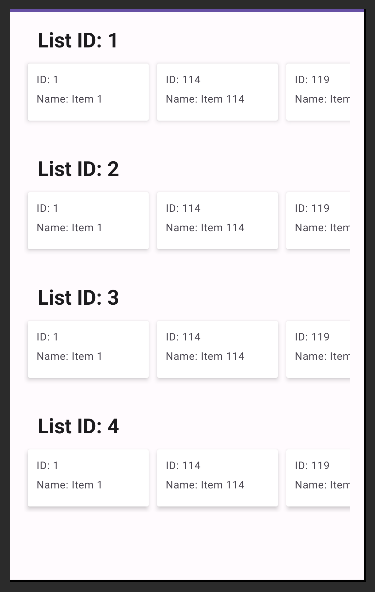
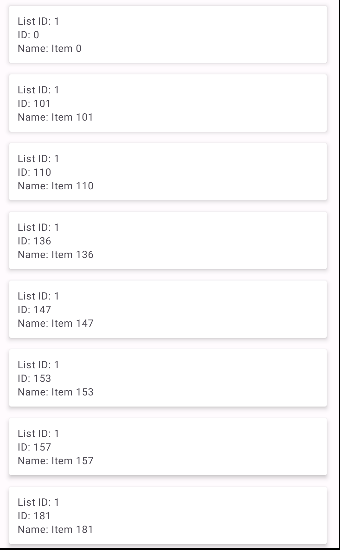
update ui

diff --git a/app/src/test/java/com/vtp/fetch/domain/usecase/GetRewardsUseCaseTest.kt b/app/src/test/java/com/vtp/fetch/domain/usecase/GetRewardsUseCaseTest.kt
@@ -2,16 +2,15 @@ package com.vtp.fetch.domain.usecase
 
 import com.vtp.fetch.data.repository.TestRewardRepository
 import com.vtp.fetch.domain.model.Reward
-import com.vtp.fetch.domain.model.RewardGroup
 import kotlinx.coroutines.flow.first
 import kotlinx.coroutines.runBlocking
 import org.junit.Test
 import kotlin.test.assertEquals
 
-class GetRewardGroupsUseCaseTest {
+class GetRewardsUseCaseTest {
 
     private val rewardRepository = TestRewardRepository()
-    private val useCase = GetRewardGroupsUseCase(rewardRepository)
+    private val useCase = GetRewardsUseCase(rewardRepository)
 
     @Test
     fun `get reward groups, filter item without empty name, sort by group id then sort by reward name`() =
@@ -29,22 +28,12 @@ class GetRewardGroupsUseCaseTest {
             assertEquals(
                 useCase().first(),
                 listOf(
-                    RewardGroup(id = 1, rewards = listOf(Reward(6, 1, "Item 6"))),
-                    RewardGroup(
-                        id = 2,
-                        rewards = listOf(
-                            Reward(4, 2, "Item 4"),
-                            Reward(8, 2, "Item 8"),
-                        )
-                    ),
-                    RewardGroup(id = 3, rewards = listOf(Reward(5, 3, "Item 5"))),
-                    RewardGroup(
-                        id = 4,
-                        rewards = listOf(
-                            Reward(1, 4, "Item 1"),
-                            Reward(7, 4, "Item 7"),
-                        )
-                    )
+                    Reward(6, 1, "Item 6"),
+                    Reward(4, 2, "Item 4"),
+                    Reward(8, 2, "Item 8"),
+                    Reward(5, 3, "Item 5"),
+                    Reward(1, 4, "Item 1"),
+                    Reward(7, 4, "Item 7")
                 )
             )
         }

diff --git a/app/src/main/java/com/vtp/fetch/presentation/RewardActivity.kt b/app/src/main/java/com/vtp/fetch/presentation/RewardActivity.kt
@@ -21,21 +21,20 @@ class RewardActivity : AppCompatActivity() {
     private val viewModel: RewardViewModel by viewModels()
 
     @Inject
-    internal lateinit var rewardGroupAdapter: RewardGroupAdapter
+    internal lateinit var rewardAdapter: RewardAdapter
 
     override fun onCreate(savedInstanceState: Bundle?) {
         super.onCreate(savedInstanceState)
         binding = ActivityRewardsBinding.inflate(layoutInflater)
         setContentView(binding.root)
         with(binding.rvRewardGroup) {
-            adapter = rewardGroupAdapter
+            adapter = rewardAdapter
             layoutManager = LinearLayoutManager(this@RewardActivity)
-            setHasFixedSize(true)
         }
         lifecycleScope.launch {
             repeatOnLifecycle(Lifecycle.State.STARTED) {
                 viewModel.rewardUiState.collect {
-                    rewardGroupAdapter.submitList(it.rewardGroups)
+                    rewardAdapter.submitList(it.rewardGroups)
                     binding.progressCircular.isVisible = it.isLoading
                     it.error?.let { throwable ->
                         toast(throwable.message.orEmpty())

diff --git a/app/src/main/java/com/vtp/fetch/domain/usecase/GetRewardsUseCase.kt b/app/src/main/java/com/vtp/fetch/domain/usecase/GetRewardsUseCase.kt
@@ -1,25 +1,21 @@
 package com.vtp.fetch.domain.usecase
 
 import com.vtp.fetch.domain.model.Reward
-import com.vtp.fetch.domain.model.RewardGroup
 import com.vtp.fetch.domain.repository.RewardRepository
 import kotlinx.coroutines.flow.Flow
 import kotlinx.coroutines.flow.map
 import javax.inject.Inject
 
-class GetRewardGroupsUseCase @Inject constructor(
+class GetRewardsUseCase @Inject constructor(
     private val repository: RewardRepository
 ) {
-    operator fun invoke(): Flow<List<RewardGroup>> {
+    operator fun invoke(): Flow<List<Reward>> {
         return repository.getRewards()
             .map { rewards ->
                 rewards.asSequence()
                     .filter { !it.name.isNullOrEmpty() }
                     .sortedWith(compareBy({ it.listId }, { it.name }))
-                    .groupBy(Reward::listId)
-                    .map { group ->
-                        RewardGroup(group.key, group.value)
-                    }
+                    .toList()
             }
     }
 }

diff --git a/app/src/main/java/com/vtp/fetch/presentation/RewardViewModel.kt b/app/src/main/java/com/vtp/fetch/presentation/RewardViewModel.kt
@@ -2,7 +2,7 @@ package com.vtp.fetch.presentation
 
 import androidx.lifecycle.ViewModel
 import androidx.lifecycle.viewModelScope
-import com.vtp.fetch.domain.usecase.GetRewardGroupsUseCase
+import com.vtp.fetch.domain.usecase.GetRewardsUseCase
 import dagger.hilt.android.lifecycle.HiltViewModel
 import kotlinx.coroutines.flow.SharingStarted
 import kotlinx.coroutines.flow.StateFlow
@@ -13,7 +13,7 @@ import javax.inject.Inject
 
 @HiltViewModel
 class RewardViewModel @Inject constructor(
-    getRewardsUseCase: GetRewardGroupsUseCase
+    getRewardsUseCase: GetRewardsUseCase
 ) : ViewModel() {
 
     val rewardUiState: StateFlow<RewardUiState> =

diff --git a/app/src/main/java/com/vtp/fetch/presentation/RewardAdapter.kt b/app/src/main/java/com/vtp/fetch/presentation/RewardAdapter.kt
@@ -21,6 +21,7 @@ class RewardAdapter @Inject constructor() :
     override fun onBindViewHolder(holder: ViewHolder, position: Int) {
         val reward = getItem(position)
         with(holder.binding) {
+            tvListId.text = root.context.getString(R.string.reward_list_id, reward.listId)
             tvId.text = root.context.getString(R.string.reward_id, reward.id)
             tvName.text = root.context.getString(R.string.reward_name, reward.name)
         }

diff --git a/app/src/main/java/com/vtp/fetch/presentation/RewardUiState.kt b/app/src/main/java/com/vtp/fetch/presentation/RewardUiState.kt
@@ -1,9 +1,9 @@
 package com.vtp.fetch.presentation
 
-import com.vtp.fetch.domain.model.RewardGroup
+import com.vtp.fetch.domain.model.Reward
 
 data class RewardUiState(
     val isLoading: Boolean = false,
-    val rewardGroups: List<RewardGroup> = emptyList(),
+    val rewardGroups: List<Reward> = emptyList(),
     val error: Throwable? = null
 )
